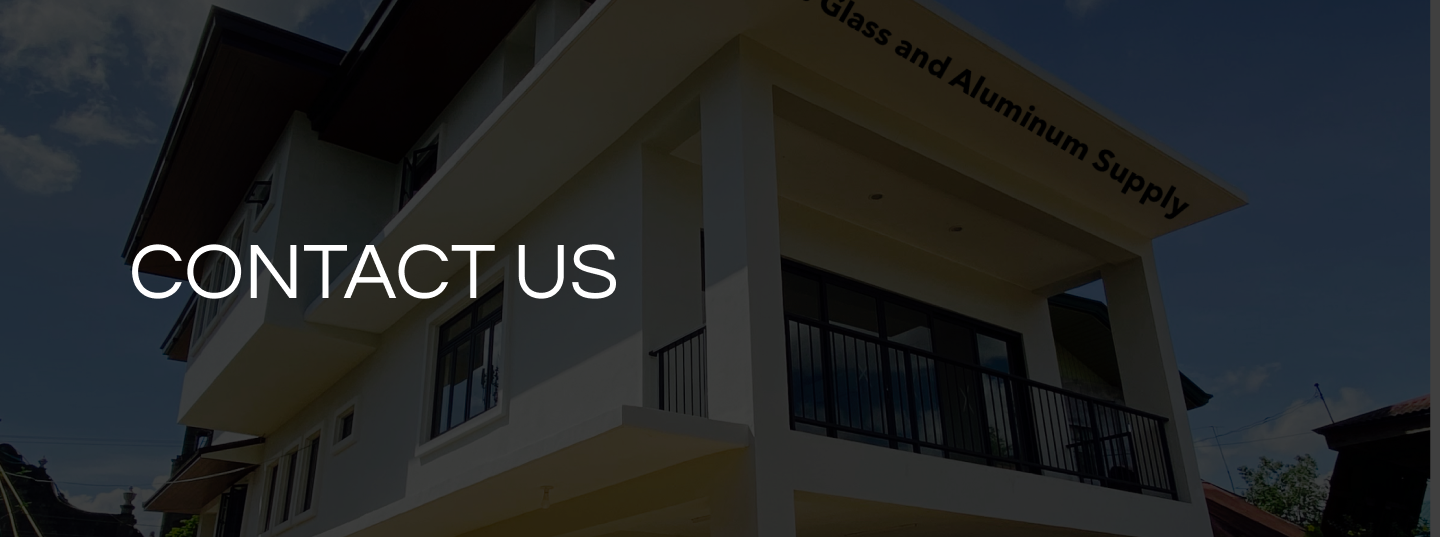
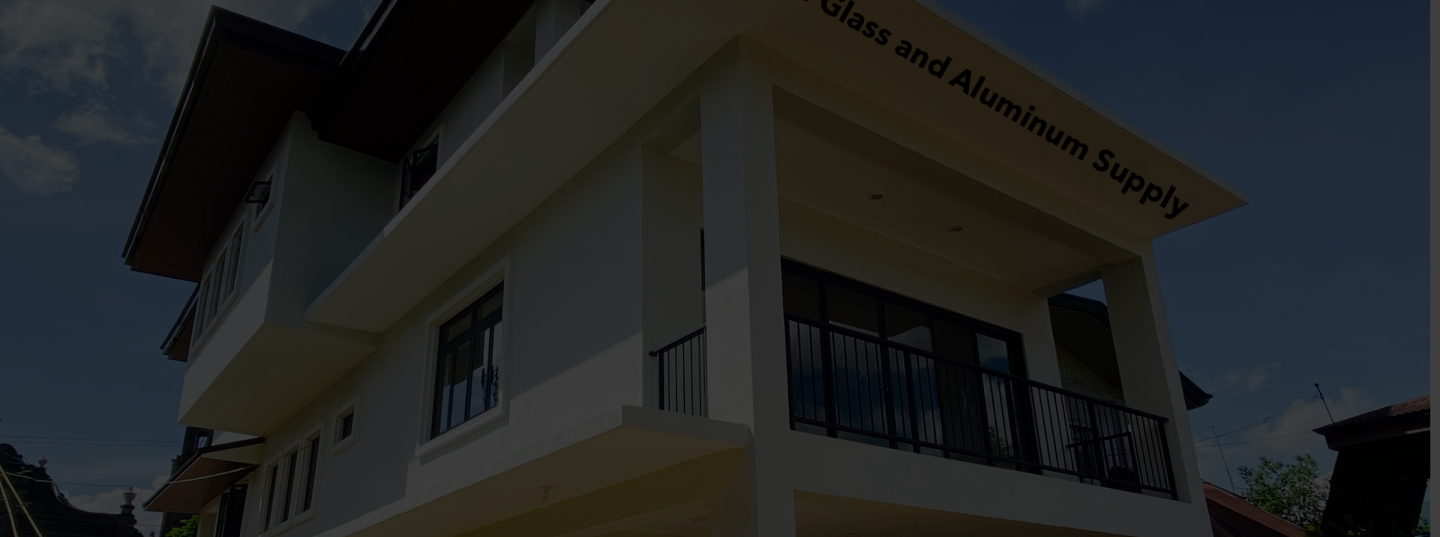
finished contact page

Changed region(s): [[0.0938, 0.4469, 0.4375, 0.5661]]

diff --git a/client/src/components/views/ContactPage/Sections/Contact.css b/client/src/components/views/ContactPage/Sections/Contact.css
@@ -7,8 +7,9 @@
 .first-wrapper {
     background: url(./first.png) no-repeat;
     background-size: cover;
-    padding: 10em 10em;
+    padding: 20em 10em;
     display: flex;
+    justify-content: space-between;
 }
 
 .first-left {
@@ -16,24 +17,35 @@
 }
 
 .first-left h1 {
+    color: white;
     font-family: 'Questrial', sans-serif;
-    font-size: 50em;
+    font-size: 6em;
 }
 
 .first-left h2 {
+    color: white;
     font-family: 'Quicksand', sans-serif;
     font-size: 1.25em;
+    margin-top: -2em;
 }
 
 .first-right {
     color: white;
     font-family: 'Quicksand', sans-serif;
     font-size: 1.25em;
+    text-align: right;
 }
 
 .first-right-wrapper {
     display: flex;
     flex-direction: row;
+    text-align: right;
+    justify-content: flex-end;
+}
+
+.first-right-wrapper p {
+    color: white;
+    text-align: right;
 }
 
 .circle {
@@ -41,4 +53,60 @@
     height: 1.5em;
     width: 1.5em;
     background: white;
+    margin-left: 10px;
+}
+
+.second {
+    display: flex;
+    flex-direction: row;
+    justify-content: center;
+    padding: 0;
+}
+
+.second-left {
+    background: #0E0E0E;
+    background-size: cover;
+    flex-grow: 1;
+    padding: 5em 5em;
+    margin: 0;
+}
+
+.second-left h1 {
+    color: white;
+    font-family: 'Quicksand', sans-serif;
+    font-size: 4.375em;
+    text-align: right;
+}
+
+.second-right {
+    flex-basis: 50em;
+    padding: 5em 5em;
+}
+
+.second-right form input, form textarea {
+    font-family: 'Roboto', sans-serif;
+    font-size: 1.25em;
+    border-radius: 5px;
+    margin-top: 1em;
+}
+
+.second-right form input {
+    padding: 0.25em 0.875em;
+}
+
+.second-right form textarea {
+    padding: 0.25em 0.875em;
+    padding-top: 0.5em;
+    resize: none;
+}
+
+.form-button {
+    background: black;
+    color: white;
+    font-size: 1.125em;
+    font-family: 'Roboto', sans-serif;
+    border-radius: 5px;
+    width: 12.5em;
+    height: 2.625em;
+    border: none;
 }

diff --git a/client/src/components/views/ContactPage/Sections/SecondSection.js b/client/src/components/views/ContactPage/Sections/SecondSection.js
@@ -1,0 +1,28 @@
+import React from 'react'
+import './Contact.css'
+
+const SecondSection = () => {
+    return (
+        <div className='second'>
+
+            <div className='second-left'>
+                <h1>
+                    CONTACT <br/>
+                    FORM
+                </h1>
+            </div>
+
+            <div className='second-right'>
+                <form id='contactForm'>
+                    <input placeholder='Name'/> <br/>
+                    <input placeholder='Email'/> <br/>
+                    <textarea placeholder='Put your message here...' rows='9' cols='80'/> <br/>
+                    <button type='submit' className='form-button'>SEND</button>
+                </form>
+            </div>
+            
+        </div>
+    )
+}
+
+export default SecondSection

diff --git a/client/src/components/views/ContactPage/Sections/FirstSection.js b/client/src/components/views/ContactPage/Sections/FirstSection.js
@@ -15,7 +15,7 @@ const FirstSection = () => {
                         <p>FOUR T'S GLASS AND ALUMINUM</p>
                         <div className="circle"/>
                     </div>
-                    <div>
+                    <div className="first-right-wrapper">
                         <p>FourTsAluminumGlass@gmail.com</p>
                         <div className="circle"/>
                     </div>

diff --git a/client/src/components/views/ContactPage/ContactUs.js b/client/src/components/views/ContactPage/ContactUs.js
@@ -1,10 +1,12 @@
 import React from 'react'
 import FirstSection from './Sections/FirstSection.js'
+import SecondSection from './Sections/SecondSection.js'
 
 function ContactUs() {
     return(
         <div>
             <FirstSection />
+            <SecondSection />
         </div>
     )
 }
